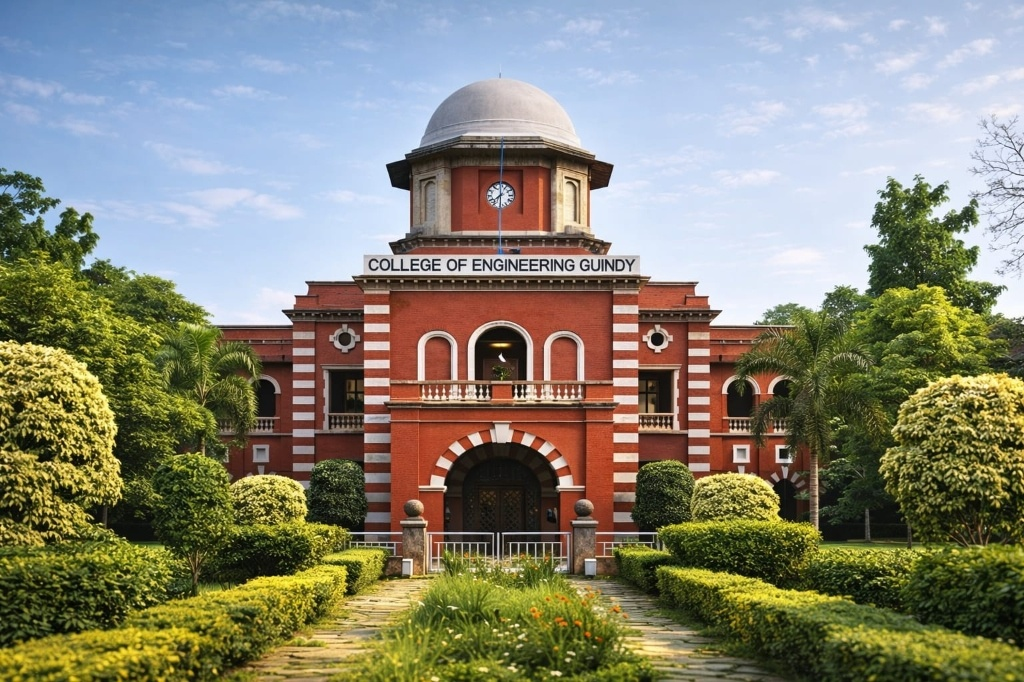
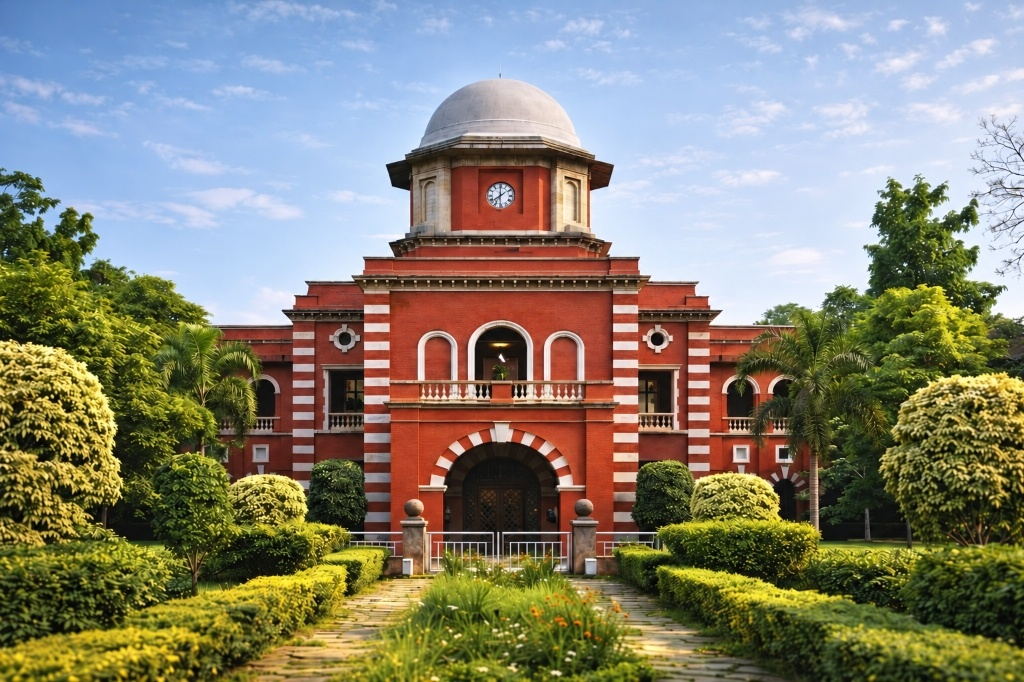
feat: force light mode always, update departmental publications to 42, and update CEG college photo

diff --git a/src/components/InstitutionsSection.tsx b/src/components/InstitutionsSection.tsx
@@ -29,7 +29,7 @@ const institutions = [
     role: "Master of Technology (MTech Applied Electronics)",
     period: "2010 - 2012",
     location: "Chennai, Tamil Nadu",
-    image: "/images/anna_university.jpg",
+    image: "/images/ceg_anna_university.jpg",
     description: "Specialized in VLSI hardware design, advanced signal processing, and real-time electronic instrumentation architectures.",
     badge: "MTech Degree"
   },
@@ -41,7 +41,7 @@ const institutions = [
     location: "Pathanamthitta, Kerala",
     image: "/images/mcp.png",
     logo: "/images/musaliar_logo.jpg",
-    description: "Achieved NBA Accreditation for ECE department (2023-2026); orchestrated 29 SCI/Scopus publications and KSUM Idea Fest seed funding.",
+    description: "Achieved NBA Accreditation for ECE department (2023-2026); orchestrated 42 SCI/Scopus publications and KSUM Idea Fest seed funding.",
     badge: "NBA Accredited"
   },
   {
@@ -61,7 +61,7 @@ const institutions = [
     role: "Bachelor of Technology (BTech in ECE)",
     period: "2002 - 2006",
     location: "Kottayam, Kerala",
-    image: "/images/mgu_campus.jpg",
+    image: "/images/mgu_campus_gate.jpg",
     logo: "/images/mgu_logo.svg",
     description: "Undergraduate engineering degree in Electronics & Communication Engineering.",
     badge: "BTech Degree"

diff --git a/src/data/portfolioData.ts b/src/data/portfolioData.ts
@@ -325,7 +325,7 @@ export const educationData: EducationItem[] = [
       "Specialized in advanced digital signal processing, VLSI systems, and embedded microcontrollers",
       "Authored 2 National Conference Papers in applied electronic instrumentation"
     ],
-    image: "/images/anna_university.jpg"
+    image: "/images/ceg_anna_university.jpg"
   },
   {
     degree: "Bachelor of Technology (BTech)",
@@ -337,7 +337,7 @@ export const educationData: EducationItem[] = [
       "Foundational undergraduate degree in communication systems, analog/digital circuits, and computational logic",
       "Capstone engineering project in communication engineering"
     ],
-    image: "/images/mgu_campus.jpg"
+    image: "/images/mgu_campus_gate.jpg"
   }
 ];
 
@@ -842,7 +842,7 @@ export const officialRoles = [
   {
     role: "Dean Research (2021-2023)",
     body: "Institutional Research Directorate",
-    details: "Orchestrated campus research culture, resulting in 29 SCI/Scopus indexed departmental publications in 2 years."
+    details: "Orchestrated campus research culture, resulting in 42 SCI/Scopus indexed departmental publications in 2 years."
   }
 ];
 

diff --git a/src/index.css b/src/index.css
@@ -4,6 +4,8 @@
 
 @layer base {
   :root {
+    color-scheme: light only !important;
+    supported-color-schemes: light !important;
     --bg-page: #ecf0f3;
     --card-bg: #ecf0f3;
     --primary-blue: #0284c7;
@@ -11,16 +13,27 @@
   }
 
   html {
+    color-scheme: light only !important;
     scroll-behavior: smooth;
     overflow-x: hidden;
   }
 
   body {
-    background-color: #ecf0f3;
-    color: #1e293b;
+    color-scheme: light only !important;
+    background-color: #ecf0f3 !important;
+    color: #1e293b !important;
     font-family: 'Plus Jakarta Sans', sans-serif;
     overflow-x: hidden;
     position: relative;
+  }
+}
+
+/* Prevent Android Chrome / Samsung Internet Auto-Dark Theme / Inversion */
+@media (prefers-color-scheme: dark) {
+  :root, html, body {
+    color-scheme: light only !important;
+    background-color: #ecf0f3 !important;
+    color: #1e293b !important;
   }
 }
 

diff --git a/src/components/AchievementsSection.tsx b/src/components/AchievementsSection.tsx
@@ -32,8 +32,8 @@ const majorHonors = [
     tag: "AICTE ATAL Grant"
   },
   {
-    title: "29 SCI / Scopus Departmental Publications in 2 Years",
-    body: "Led department research output to 29 high-impact international papers during tenure as Dean Research (2021-2023).",
+    title: "42 SCI / Scopus Departmental Publications in 2 Years",
+    body: "Led department research output to 42 high-impact international papers during tenure as Dean Research (2021-2023).",
     tag: "Research Directorate"
   },
   {

diff --git a/index.html b/index.html
@@ -1,9 +1,11 @@
 <!doctype html>
-<html lang="en" class="scroll-smooth">
+<html lang="en" class="scroll-smooth light" style="color-scheme: light;">
 
 <head>
   <meta charset="UTF-8" />
   <meta name="viewport" content="width=device-width, initial-scale=1.0" />
+  <meta name="color-scheme" content="light">
+  <meta name="supported-color-schemes" content="light">
   
   <!-- Primary Meta Tags -->
   <title>Dr. Renjith Thomas | PhD in Computer Vision & AI Researcher</title>

diff --git a/tailwind.config.js b/tailwind.config.js
@@ -7,7 +7,7 @@ module.exports = {
   content: [
     "./src/**/*.{js,jsx,ts,tsx}",
   ],
-  darkMode: ["class", "class"],
+  darkMode: 'class',
   theme: {
   	extend: {
   		animation: {
